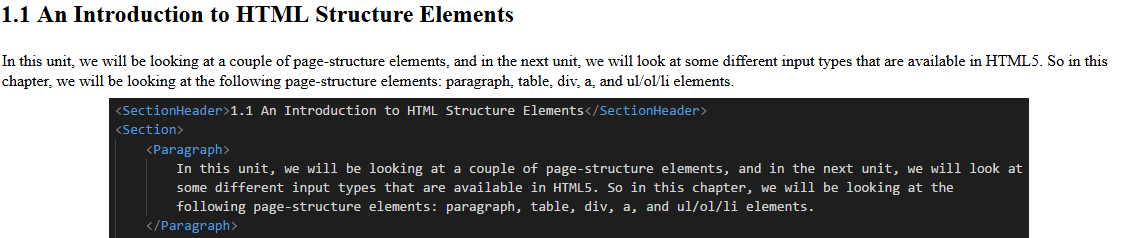
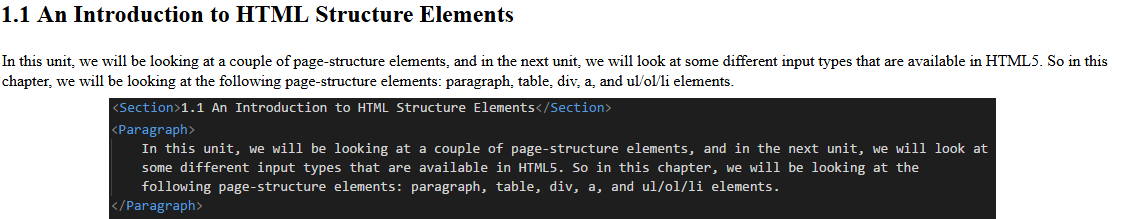
more documentation...

Changed region(s): [[0.0, 0.2192, 0.9756, 1.0], [0.0, 0.0, 0.4573, 0.1096]]

diff --git a/tma2.htm b/tma2.htm
@@ -492,13 +492,8 @@
                         There is also a picture of the rendered HTML."></img>
                     </li>
                     <li>
-                        <b>&lt;SectionHeader&gt;&lt;/SectionHeader&gt;</b> Contains the name of the section inside the tag. The 
-                        text for the section header is placed between the SectionHeader tags.
-                    </li>
-                    <li>
-                        <b>&lt;Section&gt;&lt;/Section&gt;</b> Contains the information for a section which is described by the 
-                        section header. The section can contain information such as paragraphs, images, videos, or audio information. 
-                        The Section tag is placed after the SectionHeader tags, where other EML tags can be placed between the Section tags.
+                        <b>&lt;Section&gt;&lt;/Section&gt;</b> Contains the title of the next section. The text for the section is placed 
+                        between the Section tags.
                     </li>
                     <li>
                         <b>&lt;Paragraph&gt;</b> Used to split the text of a section into different paragraphs for easier readability. The 
@@ -641,8 +636,10 @@
                     and password. Alongside this, there is also an admin user that is initially stored in the database. The admin has the ability to create courses, 
                     and is defined by having it's admin column set to True. In the main navigation bar at the top of the web pages, the admin will have a button 
                     called &quot;Create A Course&quot; which is not present in a regular user's options. To check for the admin status, a query on the username stored 
-                    in a session is used to query the database and return the admin column. If the column is true, then display the button. Next, the implementation of 
-                    the ability for an admin user to create courses is important.
+                    in a session is used to query the database and return the admin column. If the column is true, then display the button. The implementation of 
+                    the ability for an admin user to create courses is important. The user can also logout by pressing the logout link, which should appear in the 
+                    navigation bar once the user has logged in. This will take the user to the Logout.php page, which will essentially timeout the current user's 
+                    session. 
                 </p>             
                      
                 <p class="title4">
@@ -676,6 +673,7 @@
                     preceded by the course ID, is inserted into the lessonObjects table in the database. Each lesson object is specific to a course. This concludes the 
                     implementation of creating a course from EML.
                 </p>
+
                 <p class="title4">
                     The next module is a module that allows the user to select courses from a list of available courses and a list of courses that the user has added. 
                     Alongside this, the user is able to access and view any of their added courses and begin their learning! After a course is added, the program relocates 
@@ -686,8 +684,87 @@
                     selected course, along with the currently logged in username. Once the course is added, the program relocates the user to the YourCourses.php file. This 
                     file displays all of the user's added courses. The web page executes a select query on the ID and name of courses where the ID of the course is dependent 
                     on the courses that are retrieved from the usersCourses table, where the username matches the currently logged in user. The retrieved rows are displayed 
-                    as a list of buttons. When a button for a course is pressed, the ID of the course is posted to the SelectedCourse.php file.
+                    as a list of buttons. When a button for a course is pressed, the ID and name of the course is posted to the SelectedCourse.php file. The SelectedCourse.php 
+                    file is one of the most important files, because its purpose is to parse and display the Lesson and Quiz EMLs. First, the program retrieves the posted 
+                    course name and course ID. The course name is rendered as a h1 element, with a css class to center, underline, increase the font-size, and change the 
+                    font family to make the name more distinct looking. The course name and ID are used to retrieve the units that belong to the course. Next, the program 
+                    iterates through each of the units that was retrieved and obtains the unit's name and ID. The unit's name is rendered as a h1 element, with a CSS rule that 
+                    centers and underlines the unit. This unit ID is used to query the lessons table to get the name, ID, and content of the lesson. The lesson's name is rendered 
+                    as a h2 element with a CSS rule that underlines and centers the text. The content is taken and passed through the lesson EML parser. Here are the steps that 
+                    occur for the lesson EML parsing:
                 </p>    
+
+                <ul class="title4">
+                    <li> 
+                        The Overview tag is replaced with an h2 tag containing the text &quot;Overview&quot;, then creates a p (paragraph) element to contain the text of the 
+                        overview. The Overview closing tag is replaced with a closing p tag.
+                    </li>
+                    <li>
+                        The Outline starting and closing tag is replaced with an unordered list (ul) starting and closing tag, respectively. As well, the BulletPoint starting 
+                        and closing tag are replaced with a list (li) starting and closing tag.
+                    </li>
+                    <li>
+                        The Introduction starting tag is replaced with an h2 tag containing the text &quot;Introdution&quot;, then creates a paragraph (p) starting tag. The 
+                        rest of the text inside the Introduction tag becomes the contents of the paragraph element. The closing Introduction tag is replaced with a closing 
+                        paragraph tag.
+                    </li>
+                    <li>
+                        The Section starting and ending tag is replaced with h2 starting and ending tags. The section text becomes the content of the h2 tags
+                    </li>
+                    <li>
+                        The Paragraph starting and ending tag is replaced with p starting and ending tags. The paragraph text becomes the content of the p tags.
+                    </li>
+                    <li>
+                        The Image starting tag and filename attribute is replaced with an img tag and an src attribute. The value of the filename attribute is not removed, so 
+                        the replacement text occurs for everything up to the value of the filename attribute's value. The replacement string is an img tag with an src attribute 
+                        that points to the directory where the lesson objects are stored (remember that this folder is in the current folder's upload folder and the folder's name 
+                        is the course name with the course ID appended at the end). The closing Image tag is replaced with a closing img tag. Next, the description attribute
+                        (which comes after the filename attribute), is replaced with an alt attribute. This is done using two capture groups, one for the img tag and src attribute and 
+                        another for the description attribute's value and closing tag.
+                    </li>
+                    <li>
+                        The Video starting tag and filename attribute is replaced with an video tag and an src attribute. The value of the filename attribute is not removed, so 
+                        the replacement text occurs for everything up to the value of the filename attribute's value. The replacement string is an video tag with a width attribute 
+                        equal to 360 and a height value equal to 240, along with controls set. Inside the video tag, a source tag is created with a type attribute set to video/mp4 and 
+                        a src attribute that points to the directory where the lesson objects are stored (remember that this folder is in the current folder's upload folder and the 
+                        folder's name is the course name with the course ID appended at the end). The closing Video tag is replaced with text saying &quot;Your Browser Does Not Support 
+                        Video.&quot; in case the video file cannot be loaded, and is ended with a closing video tag.
+                    </li>
+                    <li>
+                        The Audio starting tag and filename attribute is replaced with an audio tag and an src attribute. The value of the filename attribute is not removed, so 
+                        the replacement text occurs for everything up to the value of the filename attribute's value. The replacement string is an audio tag with controls set. 
+                        Inside the contents of the audio element, a source tag is created with a type attribute set to audio/mpeg and a src attribute that points to the directory where 
+                        the lesson objects are stored (remember that this folder is in the current folder's upload folder and the folder's name is the course name with the course ID 
+                        appended at the end). The closing audio tag is replaced with text saying &quot;Your Browser Does Not Support Audio.&quot; in case the audio file cannot be 
+                        loaded, and is ended with a closing audio tag.
+                    </li>
+                </ul>
+
+                <p class="title4">
+                    Next, the lesson's ID is used to retrieve the associated quiz. There is also text denoting the start of the quiz, which is a h2 element that has a CSS rule to center 
+                    and underline the text. The text is the lesson's name with &quot; - Quiz&quot; appended at the end. The content of the quiz is taken and passed through the quiz EML 
+                    parser. Here are the steps that occur for the quiz EML parsing:
+                </p>
+
+                <ul class="title4">
+                    <li>
+                        The Question starting and ending tag is replaced with a h3 starting and ending tag, respectively. The Question's text becomes the text of the h3 element.
+                    </li>
+                    <li>
+                        The Answer starting tag is replaced with an input tag and a type attribute with the value &quot;radio&quot; and the Answer closing tag is replaced with 
+                        a closing input tag. After the closing tag, there is a br element to put each radio button on a new line. The text inside the Answer tag becomes the 
+                        content within the input tag.
+                    </li>
+                </ul>
+
+                <p class="title4">
+                    The last module in the learning management system is the quiz module. Above, we discussed how the quiz is generated from EML, but now we will briefly discuss how the 
+                    quiz works. In the Quiz EML, there is a name attribute that is used to group the answers to a question. The EML requires that there is a name attribute associated with 
+                    each Answer tag. As well, there is a correct attribute in the answer tag, that becomes an attribute in the radio button input after parsing. The value of this attribute 
+                    can be a * for the correct answer, or empty for an incorrect answer. When the user presses the Submit Quiz button, the answers that the user puts is compared with the 
+                    correct answer for each question grouping. The number of correct answer that the user has is divided for the total number of questions for that lesson and the score is 
+                    displayed to the user.
+                </p>
 
                 <hr />
 

diff --git a/shared/tma2_stylesheet.css b/shared/tma2_stylesheet.css
@@ -291,6 +291,13 @@ a:visited {
     text-decoration: underline;
 }
 
+.courseTitle {
+    font-size: 3em;
+    font-family: Courier New, Courier, monospace;
+    text-align: center;
+    text-decoration: underline;
+}
+
 #courseContentDiv {
     margin: 8%;
 }
